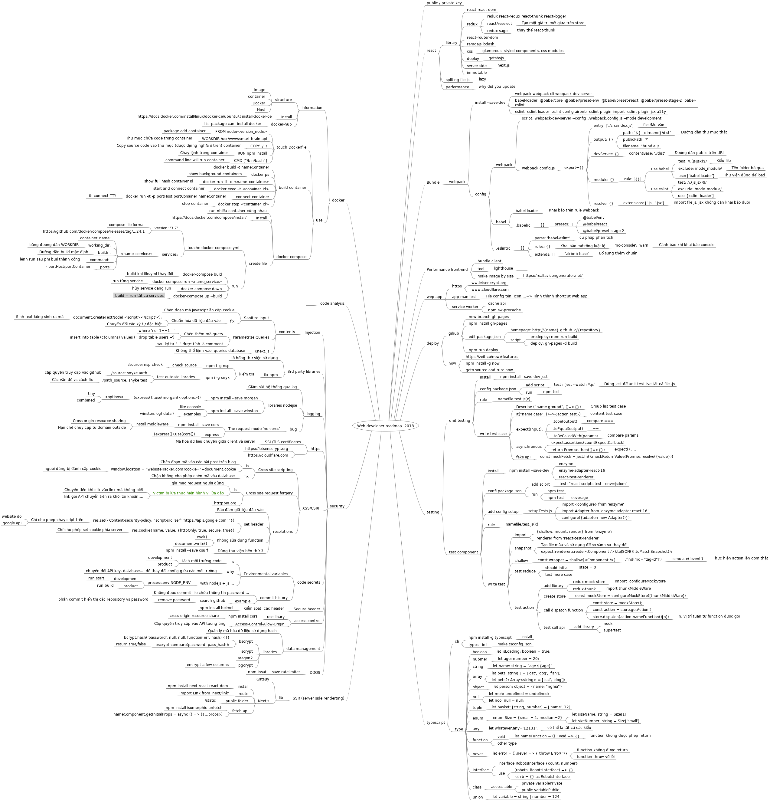
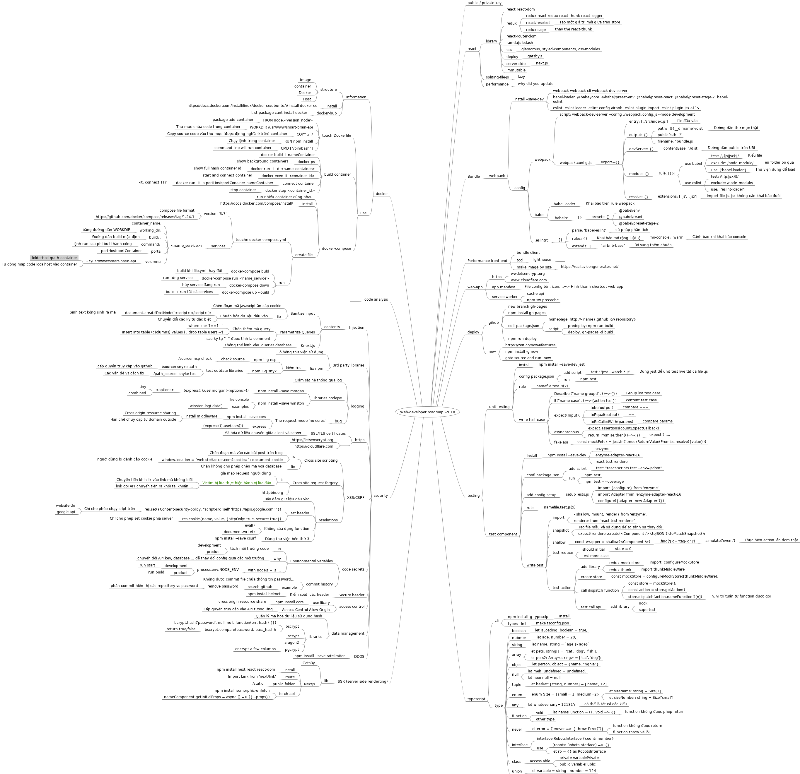
update docker

diff --git a/website/Web-developer roadmap -2018.mm b/website/Web-developer roadmap -2018.mm
@@ -450,6 +450,12 @@
 <node CREATED="1567018896204" ID="ID_1036633730" MODIFIED="1567018902060" TEXT="ports:">
 <node CREATED="1567018903586" ID="ID_532350181" MODIFIED="1567018921947" TEXT="- portHost:portContainer"/>
 </node>
+<node CREATED="1567019883574" ID="ID_1120514412" MODIFIED="1567019888783" TEXT="volumns:">
+<node CREATED="1567019892220" ID="ID_837497552" MODIFIED="1567019927558" TEXT="-./:/usr/www/smart-brain-api">
+<node CREATED="1567019973895" ID="ID_42705431" MODIFIED="1567020007069" TEXT="folderHost:path-container"/>
+<node CREATED="1567019929019" ID="ID_875584196" MODIFIED="1567019970791" TEXT="T&#x1ef1; &#x111;&#x1ed9;ng map code localhost v&#xe0;o container"/>
+</node>
+</node>
 </node>
 </node>
 </node>
